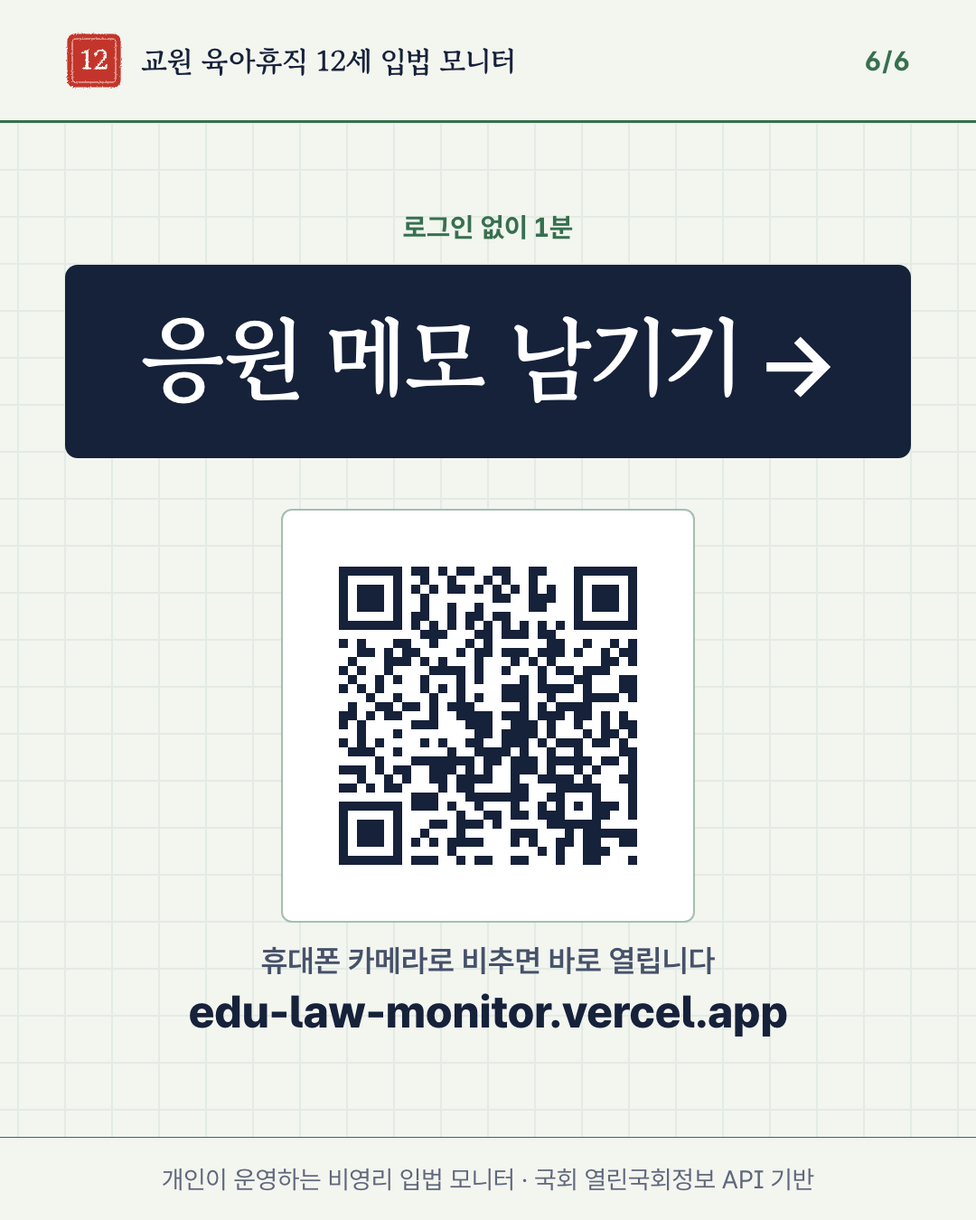
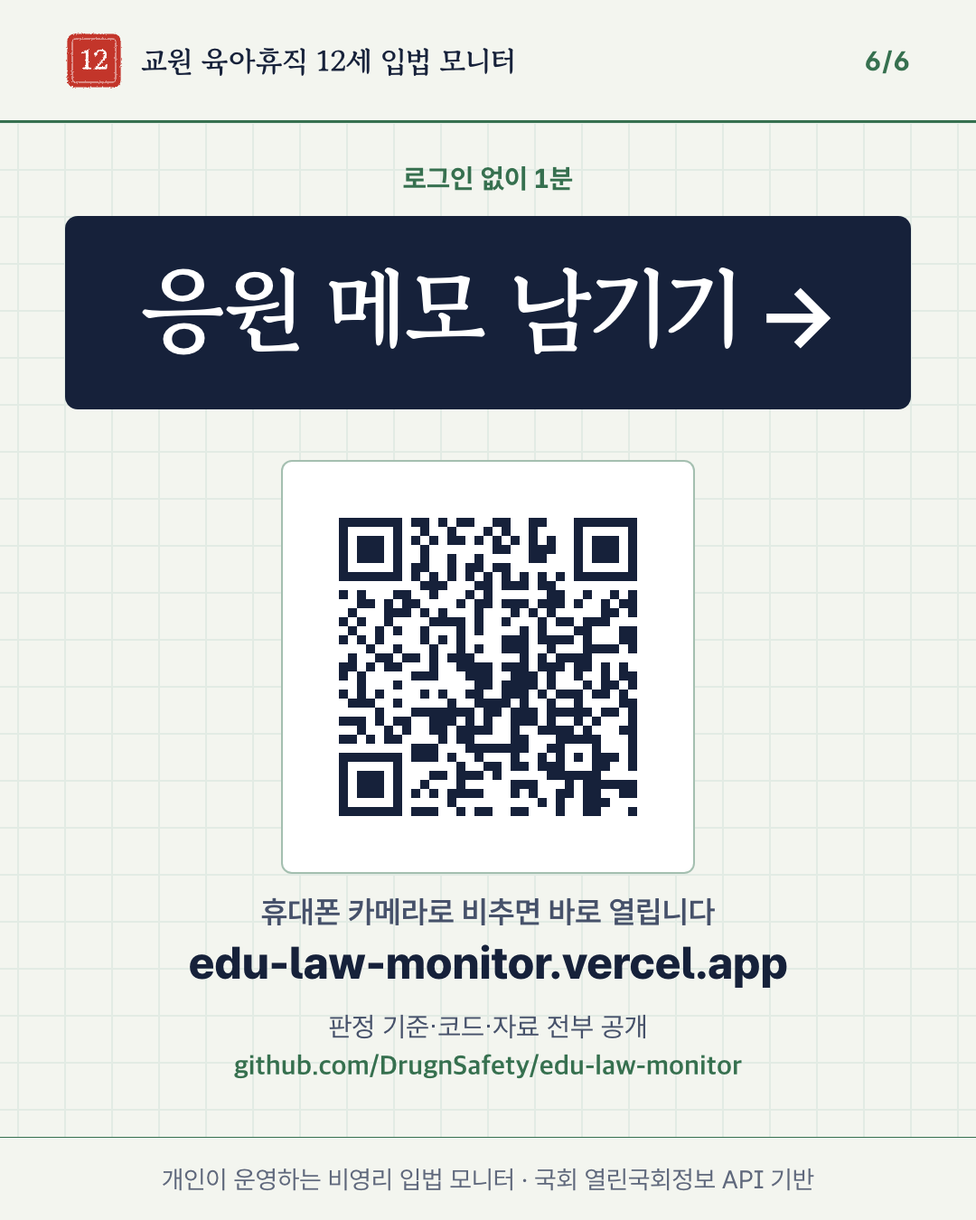
문서 정리(docs/), README 개편, 카드뉴스·사이트에 GitHub 공개 링크, 카페 게시글 초안

Changed region(s): [[0.0611, 0.1244, 0.9472, 0.9022]]

diff --git a/app/layout.tsx b/app/layout.tsx
@@ -56,7 +56,11 @@ export default function RootLayout({ children }: { children: React.ReactNode }) 
               Open API를 <b className="font-semibold text-ink-2">하루 3회({CHECK_TIMES_KST.join(" · ")})</b> 조회해 자동으로 판정합니다. API 반영은 며칠 늦을 수 있어, 확인되지 않은 사항은 ‘확인 불확실’로 표시합니다. ‘추정’은 일반 절차에 근거한 예상이며 사실이 아닙니다.
             </p>
             <p>
-              빠른 입법 지지 메모가 100개 모일 때마다 AI 비서 ‘피클(Pickle)’이 교육위원회 의원 지역사무실에 전화를 겁니다. 운영자 승인 후 평일 업무시간에만, 사무실당 한 번입니다. 이 사이트는 개인이 운영하는 시민 모니터로 국회·정부와 관계가 없습니다.
+              빠른 입법 지지 메모가 100개 모일 때마다 AI 비서 ‘피클(Pickle)’이 교육위원회 의원 지역사무실에 전화를 겁니다. 운영자 승인 후 평일 업무시간에만, 사무실당 한 번입니다. 이 사이트는 개인이 운영하는 시민 모니터로 국회·정부와 관계가 없습니다. 판정 기준과 코드는{" "}
+              <a className="underline decoration-rule underline-offset-2 hover:decoration-ink" href="https://github.com/DrugnSafety/edu-law-monitor" target="_blank" rel="noreferrer">
+                GitHub
+              </a>
+              에 공개되어 있습니다.
             </p>
           </div>
         </footer>

diff --git a/marketing/cardnews/06_cta.html b/marketing/cardnews/06_cta.html
@@ -58,6 +58,8 @@
         justify-content: center;
         text-align: center;
       }
+      .src{margin:22px 0 0;text-align:center;font-family:Pretendard,sans-serif;font-size:30px;line-height:1.45;color:#46516a}
+      .src b{color:#36704f;font-weight:700}
     </style>
   </head>
   <body>
@@ -88,6 +90,7 @@
         <div class="qr"><img src="qr.svg" alt="edu-law-monitor.vercel.app 으로 가는 QR 코드" /></div>
         <p class="qr-hint">휴대폰 카메라로 비추면 바로 열립니다</p>
         <p class="url">edu-law-monitor.vercel.app</p>
+        <p class="src">판정 기준·코드·자료 전부 공개<br /><b>github.com/DrugnSafety/edu-law-monitor</b></p>
       </section>
 
       <footer class="foot foot--about">

diff --git a/lib/config.ts b/lib/config.ts
@@ -1,4 +1,4 @@
-// 모니터링 기준선과 상수. 기준선은 docs-original-prompt-v3.md 및 PLAN.md 기준.
+// 모니터링 기준선과 상수. 기준선은 docs/original-monitoring-prompt-v3.md 및 PLAN.md 기준.
 
 export const BASELINE_DATE = "2026-11-17";
 export const SESSION_END = "2026-12-09"; // 정기회 종료일

diff --git a/docs/promotion-targets.md b/docs/promotion-targets.md
@@ -1,0 +1,84 @@
+# 홍보 대상 목록: 교원 육아휴직 확대(만 8세/초2 → 만 12세/초6) 모니터링 사이트
+
+작성일 2026-11-17. 대상 사이트 https://edu-law-monitor.vercel.app
+
+주의: 운영자(강민규)는 국립대 의대 교수(교육공무원)이자 학부모이며 초·중등 교사가 아님. 교사 인증이 필요한 커뮤니티(인디스쿨, 함초, 초임공 등)에는 교사로 가입하거나 교사인 척 글을 쓰면 안 됨. 가입·게시·로그인은 하지 않았고 공개 페이지만 열람함. '미확인'은 이번 조사에서 확인하지 못했다는 뜻이며, 모든 규정은 게시 전 직접 재확인 필요.
+
+근거 법안: 교육공무원법 일부개정안(김희정 의원 등 12인, 2026-10-08), 사립학교법 일부개정안(강경숙 의원 등 10인, 2026-10-29)
+
+우선순위: 도달 범위 x 적합도 x 게시 가능성. 가입 가능 여부 열은 일반인/교사인증 필요/기관으로 표기.
+
+## 1. 교육 전문 언론
+
+| 우선순위 | 이름 | URL | 규모 | 가입 가능 여부 | 가입·연락 조건 | 홍보 허용 | 추천 게시판/채널 | 비고 | 출처 |
+|---|---|---|---|---|---|---|---|---|---|
+| A | 한국교육신문(한국교총 계열) | https://www.hangyo.com/home/page.html?code=report | 교육 매체 1위(자체 소개) | 기관(외부 연락 채널) | 온라인 제보·투고 폼(비회원 가능 여부 미확인); 교총 보도 창구 | yes | 제보·투고 폼 | 교원 독자 최다. 폼 필드는 확인 못함(내용 로드 안 됨). 교총 계열이라 교원 처우 법안 관심 높음. | https://www.hangyo.com/home/page.html?code=company |
+| A | 에듀프레스 | https://www.edupress.kr/ | 온라인 전문지 | 기관(외부 연락 채널) | 기자 이메일/제보(공개 페이지에서 제보 이메일 미확인) | unknown | 기사 제보(이메일 미확인) | 11월 중순 교원 정책 기사(교총·교사노조 등) 활발 보도. 기자 개별 연락처는 기사 하단에서 확인 필요. | https://www.edupress.kr/ |
+| A | 교육플러스 | https://www.edpl.co.kr/ | 온라인 전문지 | 기관(외부 연락 채널) | 대표 이메일 edpl@edpl.co.kr, 전화 031-217-6262 | yes | 보도자료 이메일 | 보도자료/인사동정 섹션 운영. 이메일은 사이트 공개 정보. | https://www.edpl.co.kr/news/articleView.html?idxno=5495 |
+| B | 교육희망(전교조 기관지) | http://news.eduhope.net/ | 전교조 계열 | 기관(외부 연락 채널) | 기사제보/보도자료 chamehope@gmail.com | yes | 기사제보 이메일 | 전교조 성향 매체. 정책 중립 사실 안내형 자료 적합. | http://news.eduhope.net/ |
+| B | 에듀인뉴스 | https://eduinnews.co.kr/ | 온라인 전문지 | 기관(외부 연락 채널) | 푸터 mail to tana21@naver.com; '보도자료' 섹션 존재 | yes | 보도자료 섹션/이메일 | 현재 기사는 MOU·칼럼 위주로 교원 정책 보도 비중은 낮아 보임. | https://eduinnews.co.kr/ |
+| B | 베이비뉴스 | https://www.ibabynews.com/ | 육아 전문 언론, 창간 16주년 | 기관(외부 연락 채널) | 회사소개 이메일 pr@ibabynews.com, 대표전화 02-3443-3346 | yes | 회사 공식 이메일(pr) | 학부모/육아 독자. 교사 부모 일·가정 양립 각도 적합. 제보 전용 메일은 미확인. | https://www.ibabynews.com/com/com-1.html |
+| C | 에듀플러스(교육신문 etedu) | https://etedu.co.kr/media/media | 온라인 전문지 | 기관(외부 연락 채널) | 보도자료 게시판 존재, 이메일 미확인 | unknown | 보도자료 게시판 | - | https://etedu.co.kr/media/media |
+
+## 2. 교원단체·노조
+
+| 우선순위 | 이름 | URL | 규모 | 가입 가능 여부 | 가입·연락 조건 | 홍보 허용 | 추천 게시판/채널 | 비고 | 출처 |
+|---|---|---|---|---|---|---|---|---|---|
+| A | 한국교총(한국교원단체총연합회) | https://www.kfta.or.kr/ | 약 15만(2023 추정치, 블로그) | 기관(외부 연락 채널) | 공식 SNS/카톡 채널; 이메일 kftapr@kfta.or.kr(페이스북 공개), 02-570-5500 | n/a | 대외협력/홍보 담당 이메일 | 교원단체. 육아휴직 확대는 처우·정책 이슈로 인용 가능. 인스타 koreakfta 6.2K, FB 7K. | https://www.facebook.com/kfta0515 |
+| A | 교사노조연맹 | https://www.kftu.net/ | 약 7.5만(2023 추정, 중복 포함) | 기관(외부 연락 채널) | 홈페이지 '취재요청' 분류 게시판, 인스타·페이스북·유튜브 운영(핸들 미확인) | n/a | 보도자료/취재요청 게시판 | 20~30대 교사 비중 높음, 육아휴직 직접 이해 당사자 많음. | https://www.kftu.net/board/index.html?id=news&no=642 |
+| A | 전교조(전국교직원노동조합) | https://www.eduhope.net/ | 약 4만(2023 추정), FB 16K, IG 4,870 | 기관(외부 연락 채널) | 대표 chambb@eduhope.net, 02-2670-9300; 대변인 chamktu@hanmail.net(보도자료 하단) | n/a | 대외 보도자료 이메일 | IG eduhope_from_you. 정치 성향 있으므로 중립 사실 자료 형태로 접근. | https://www.eduhope.net/ |
+| A | 초등교사노동조합 | https://estu.kr/ | 미확인 | 기관(외부 연락 채널) | estu20@naver.com, 02-761-0325 (사이트 푸터) | n/a | 대표 이메일 | 초등교사 중심; 초2→초6 확대가 직접 관련. 최근 논평·법안 환영 입장 다수. | https://estu.kr/ |
+| B | 좋은교사운동 | http://www.goodteacher.org/ | 미확인 | 기관(외부 연락 채널) | admin@goodteacher.org(푸터), 02-876-4078; 보도자료 게시판 운영 | n/a | 보도/연락 이메일 | 기독교사 연합 성격, 교육 이슈 성명 활발. FB goodteacher2. | http://www.goodteacher.org/ |
+| B | 사립학교 교원 단체(사립학교교직원노조 등) | - | 미확인 | 기관(외부 연락 채널) | 이번 조사에서 공식 연락처를 확인하지 못함. 사립학교법 개정안(강경숙 의원 대표발의 2026-10-29) 관련이라 별도 조사 필요 | unknown | - | 사립 교원 대상 조항 포함이라 적합도 높음. 후속 조사 필요. | https://opinion.lawmaking.go.kr/gcom/nsmLmSts/out/2222256/detailRP |
+| C | 실천교육교사모임 | https://koreateachers.org | 약 2천(2023 추정) | 기관(외부 연락 채널) | 연락처 미확인(공식 사이트 미조회) | n/a | 홈페이지 문의 | 초등 교사 중심. | https://pathfollower.tistory.com/entry/%EA%B5%90%EC%9B%90-6%EB%8C%80-%EB%8B%A8%EC%B2%B4-%ED%8A%B9%EC%A7%95-%ED%9A%8C%EB%B9%84-%ED%9A%8C%EC%9B%90%EC%88%98-%EB%B9%84%EA%B5%90feat-%EA%B5%90%EC%9B%90%EB%8B%A8%EC%B2%B4%EC%99%80-%EA%B5%90%EC%9B%90%EB%85%B8%EC%A1%B0 |
+| C | 새로운학교네트워크 | https://newschoolnet.kr | 미확인 | 기관(외부 연락 채널) | 연락처 미확인 | n/a | 홈페이지 문의 | - | https://pathfollower.tistory.com/entry/%EA%B5%90%EC%9B%90-6%EB%8C%80-%EB%8B%A8%EC%B2%B4-%ED%8A%B9%EC%A7%95-%ED%9A%8C%EB%B9%84-%ED%9A%8C%EC%9B%90%EC%88%98-%EB%B9%84%EA%B5%90feat-%EA%B5%90%EC%9B%90%EB%85%B8%EC%A1%B0 |
+
+## 3. 교사 커뮤니티(비네이버 및 기타)
+
+| 우선순위 | 이름 | URL | 규모 | 가입 가능 여부 | 가입·연락 조건 | 홍보 허용 | 추천 게시판/채널 | 비고 | 출처 |
+|---|---|---|---|---|---|---|---|---|---|
+| B | 전국 기간제교사 모임(Daum) | https://cafe.daum.net/_c21_/home?grpid=Pejt | 121,422 | 미확인 | 가입 후 등업(정회원) 필요, 교사업무방은 정회원 이상. 가입·등업 안내 글 있음 | unknown | 미확인 | 기간제 교사 대규모 커뮤니티. 육아휴직 대체교사 이슈와 연결 가능. 외부 링크 규정은 카페 규칙 확인 필요. | https://cafe.daum.net/_c21_/home?grpid=Pejt |
+| B | 쌤동네(구 티처빌 통합) | https://www.instagram.com/ssamdongne | ‘33만 교사’ 자체 표기 | 미확인 | 플랫폼 회원/교사 인증 여부 미확인 | unknown | 미확인 | 인스타그램 계정 DM·제휴 문의 가능성. 정책 확인 필요. | https://www.instagram.com/ssamdongne |
+| C | 인디스쿨(초등교사커뮤니티) | https://indischool.com | 미확인(초등교사 전용) | 교사/학생 인증 필요 | 초등교사 교사인증 필수(나이스 급여명세서/서류). 중등·비교과 불가. 사단법인 | board-specific | 커뮤니티>사회이슈 쫑알쫑알 채널(SNS·유튜브 홍보 불가) / 함께해요(광고·홍보 가능, [광고]표시, 주1회) — 단 회원만 | 운영자는 초등교사가 아니므로 가입·작성 불가(사칭 금지). 외부 광고·제휴 요청도 일체 불가. 교원단체 단체계정 개설 절차는 있음(노조/교원단체). | https://support.indischool.com/hc/ko/articles/51686994593433 |
+| C | 함께하는 초등교육(함초) | https://cafe.naver.com/withelementary | 미확인 | 교사/학생 인증 필요 | 교사/교대생 인증 필수(전국 초등교사·교대생 전용), 2016 블로그 기준 | unknown | 미확인 | 운영자 가입 불가. 현재 정책은 카페 직접 확인 필요. | https://m.blog.naver.com/kejs2sun/220854391072 |
+| C | 초임공(초등임용 다음카페) | https://cafe.daum.net | 미확인 | 교사/학생 인증 필요 | 실명 인증+가입 퀴즈, 교대생·졸업자 전용(2025 블로그 소개) | unknown | 미확인 | 운영자 가입 불가. | https://edu.dasfl.com/entry/%EC%B4%88%EB%93%B1%EC%9E%84%EC%9A%A9%EA%B3%A0%EC%8B%9C-%EA%B0%99%EC%9D%B4-%EA%B3%B5%EB%B6%80%ED%95%B4%EC%9A%94-%EC%B4%88%EC%9E%84%EA%B3%B5-%EA%B0%80%EC%9D%B4%EB%93%9C |
+| C | 네이버 웨일 교사 커뮤니티 | https://cafe.naver.com/whaleteachers | 719 | 미확인 | 가입 필요(조건 미확인) | unknown | 제품 커뮤니티 | 소규모, 특정 제품 커뮤니티라 적합도 낮음. | https://cafe.naver.com/whaleteachers |
+| C | 교사크리에이터협회 | https://www.instagram.com/tcreator_official | 미확인 | 미확인 | 네이버 카페 m.cafe.naver.com/ca-fe/ttuber 연계 | unknown | - | - | https://www.instagram.com/tcreator_official |
+| C | 블라인드 교사 라운지 | https://www.teamblind.com | 미확인 | 미확인 | 직장/학교 인증 필요 여부 미확인 | unknown | 미확인 | 이번 조사에서 규정 미검증. | 미검증 |
+| C | 디시인사이드 교사 갤러리 | https://gall.dcinside.com | 미확인 | 미확인 | 미검증(비회원 글쓰기 정책 미확인) | unknown | 미확인 | 광고성 글 삭제 위험, 정책 확인 필요. | 미검증 |
+| C | 에브리타임 교대 게시판 | https://everytime.kr | 미확인 | 교사/학생 인증 필요 | 재학생 학교 인증 필요(일반인 불가로 추정, 미검증) | unknown | 해당 없음 | 운영자 접근 불가. 교대 학생회·학보 경로 대체. | 미검증 |
+
+## 4. 네이버 카페(학부모/교사)
+
+| 우선순위 | 이름 | URL | 규모 | 가입 가능 여부 | 가입·연락 조건 | 홍보 허용 | 추천 게시판/채널 | 비고 | 출처 |
+|---|---|---|---|---|---|---|---|---|---|
+| B | 초등맘(초중고 부모들의 목소리) | https://cafe.naver.com/mom79 | 207,168~207,315 (검색 스냅샷) | 미확인 | '여자만 가입가능' 표기, 가입 신청 형태 미확인 | unknown | 자유/정책 게시판은 미확인; 카페 규칙 필독 게시판 확인 필요 | 학부모 대형 카페. 교사 부모 대상 홍보 적합. 성별 제한 때문에 운영자 가입 가능 여부는 본인 기준으로 확인. | https://cafe.naver.com/mom79 |
+| C | 맘스홀릭 베이비 | https://cafe.naver.com/imsanbu | 3,708,101 | 미확인 | '여자만 가입가능', 임신·육아 대상 | unknown | 초등맘 수다방 등 있으나 외부 홍보 규정 미확인 | 최대 규모이나 임신·영유아 중심이라 적합도는 낮고, 광고 규제 가능성 높음. | https://cafe.naver.com/imsanbu |
+| C | 부천 사랑 초등맘 | https://m.cafe.naver.com/ohhappy24 | 미확인 | 미확인 | 지역 카페(부천), 가입 조건 미확인 | unknown | 미확인 | 지역 한정. | https://m.cafe.naver.com/ohhappy24 |
+| C | 영유아교사를 위한 엄마쌤카페 | https://m.cafe.naver.com/ca-fe/web/cafes/31149397 | 미확인 | 미확인 | 미확인 | unknown | 미확인 | 어린이집·유치원 교사 위주(교원 범위 일부). | https://m.cafe.naver.com/ca-fe/web/cafes/31149397 |
+
+## 5. SNS 계정(인스타그램·페이스북)
+
+| 우선순위 | 이름 | URL | 규모 | 가입 가능 여부 | 가입·연락 조건 | 홍보 허용 | 추천 게시판/채널 | 비고 | 출처 |
+|---|---|---|---|---|---|---|---|---|---|
+| A | 한국교총 인스타(@koreakfta) | https://www.instagram.com/koreakfta | 6,163 | 일반인(팔로우/DM) | 공개 | unknown | 댓글/DM; 교총 홍보 이메일 병행 | 교원 정책 게시물 활발, 댓글 소통 활발(게시물당 댓글 다수). | https://www.instagram.com/koreakfta |
+| B | 풀꽃선생님(@a_flower_edu) | https://www.instagram.com/a_flower_edu | 111K | 일반인(팔로우/DM) | 공개 팔로우/DM | unknown | DM 문의 | 초등 국어 교사 인플루언서. 교권 정책 비중은 낮음. | https://www.instagram.com/a_flower_edu |
+| B | 준쌤 이준권(@jun_ssaem) | https://www.instagram.com/jun_ssaem | 1.6K+ | 일반인(팔로우/DM) | 공개 | unknown | DM | 충남교총 회장·교사크리에이터협회 회장 표기(프로필). 교원 정책 인플루언서 연결고리. | https://www.instagram.com/jun_ssaem |
+| B | 쌤동네(@ssamdongne) | https://www.instagram.com/ssamdongne | 미확인(플랫폼 33만 자체 표기) | 일반인(팔로우/DM) | 공개 | unknown | DM | 교사 정보 콘텐츠 계정. | https://www.instagram.com/ssamdongne |
+| B | 전교조 공식(@eduhope_from_you) | https://www.instagram.com/eduhope_from_you | 4,870 | 일반인(팔로우/DM) | 공개 | unknown | DM | - | https://www.instagram.com/eduhope_from_you |
+| B | 전교조 페이스북 | https://www.facebook.com/chameduhope | 16K | 일반인(팔로우/DM) | 공개 | unknown | 메시지 | - | https://www.facebook.com/chameduhope |
+| B | 한국교총 페이스북(kfta0515) | https://www.facebook.com/kfta0515 | 약 7K | 일반인(팔로우/DM) | 공개 | unknown | 메시지 | - | https://www.facebook.com/kfta0515 |
+| C | 안상현 초등교사안쌤(@goodteacherinkorea) | https://www.instagram.com/goodteacherinkorea | 10.7K | 일반인(팔로우/DM) | 공개 | unknown | DM | 학부모 코칭 중심. | https://www.instagram.com/goodteacherinkorea |
+| C | 유진쌤(@ssam_in_sesami) | https://www.instagram.com/ssam_in_sesami | 7.0K | 일반인(팔로우/DM) | 공개 | unknown | DM | - | https://www.instagram.com/ssam_in_sesami |
+| C | 키티쌤(@kit_tycher) | https://www.instagram.com/kit_tycher | 4K+ | 일반인(팔로우/DM) | 공개 | unknown | DM | 저연차 초등교사(출산·육아 연령대 가능). | https://www.instagram.com/kit_tycher |
+| C | 1000쌤 교사 노션(@iooo_tttt) | https://www.instagram.com/iooo_tttt | 미확인 | 일반인(팔로우/DM) | 공개 | unknown | DM | 14년차 중등교사. | https://www.instagram.com/iooo_tttt |
+| C | 해피이선생(@happylee_ssam) | https://www.instagram.com/happylee_ssam | 미확인 | 일반인(팔로우/DM) | 공개 | unknown | DM | 초등교사 유튜버. | https://www.instagram.com/happylee_ssam |
+| C | 교사크리에이터협회(@tcreator_official) | https://www.instagram.com/tcreator_official | 미확인 | 일반인(팔로우/DM) | 공개 | unknown | DM | - | https://www.instagram.com/tcreator_official |
+| C | 좋은교사운동 페이스북(goodteacher2) | https://www.facebook.com/goodteacher2 | 미확인 | 일반인(팔로우/DM) | 공개 | unknown | 메시지 | - | https://www.facebook.com/goodteacher2 |
+
+## 참고
+- Threads/X 계정은 이번 조사에서 핸들과 팔로워를 확인하지 못해 제외함(인스타그램·페이스북만 기재). 인스타그램 팔로워는 검색 스냅샷 기준 대략치.
+- 디시, 블라인드, 에브리타임, 아이스크림 쌤, 에듀넷 티-클리어는 공식 규정을 확인하지 못함.
+- 사립학교 교원 단체, 실천교육교사모임, 새로운학교네트워크 연락처는 후속 확인 필요.
+- 네이버 카페 교사 전용(임용·교사맘·사립교사 등)의 정확한 URL·회원수는 이번에 확인한 범위(초등맘, 맘스홀릭, 함초 등)를 넘지 못함.
+- 맘카페 2곳은 '여자만 가입가능'으로 표기됨.

diff --git a/docs/cafe-post-drafts.md b/docs/cafe-post-drafts.md
@@ -1,0 +1,76 @@
+# 카페 게시글 초안
+
+카드뉴스(`marketing/cardnews/png/01~06`)를 순서대로 첨부하고 아래 본문을 붙입니다.
+올리기 전에 각 카페의 홍보·외부링크 규정과 게시판을 확인하세요(규정상 금지면 올리지 않거나 운영진에게 먼저 문의).
+사실 기준일: 2026-11-18(KST). 대안 조문이 공개되면 3번 문단을 고쳐야 합니다.
+
+---
+
+## A. 교사·기간제교사 카페용
+
+**제목**
+[정보] 교원 육아휴직 '초6까지' 개정, 11/17 국회 소위 통과 — 12/9 정기회 전 남은 3단계
+
+**본문**
+
+안녕하세요. 교원 육아휴직 개정 소식을 정리해 공유드립니다.
+카페 규정에 맞지 않는 글이라면 운영진께서 삭제하셔도 괜찮습니다.
+
+■ 지금 기준
+- 교원(국공립·사립) 육아휴직 대상 자녀: 만 8세 이하 또는 초등학교 2학년 이하
+- 일반 국가·지방공무원: 2026년 6월부터 만 12세 이하·초등학교 6학년 이하로 확대(베이비뉴스 2026.6.2 보도)
+- 교원에게 적용되는 교육공무원법·사립학교법만 아직 개정되지 않았습니다.
+
+■ 11월 17일에 있었던 일
+국회 교육위원회 법안심사소위원회가 교육공무원법 개정안 4건, 사립학교법 개정안 3건을 '위원회 대안'으로 묶어 의결했습니다.
+원래 개정안들의 공통 내용은 대상 자녀를 만 12세 이하·초6 이하로 넓히는 것입니다.
+다만 대안의 정확한 조문(시행일 등)은 아직 공개되지 않았습니다. 확인되는 대로 아래 사이트에 반영됩니다.
+사립학교법도 함께 다뤄졌다는 점에서 사립 선생님들께도 해당되는 내용입니다.
+
+■ 남은 절차
+① 소위 의결(완료, 11/17) → ② 교육위 전체회의 → ③ 법사위 → ④ 본회의 → 정부 이송·공포·시행
+이번 정기회는 12월 9일에 끝납니다. 회기 안에 본회의까지 가지 못하면 다시 늦어질 수 있습니다.
+
+■ 진행 상황을 자동으로 확인하는 사이트를 만들었습니다
+교원 육아휴직 12세 입법 모니터: https://edu-law-monitor.vercel.app
+- 국회 열린국회정보 Open API로 하루 3번(08:40·13:40·21:10) 의안·회의 일정을 확인합니다.
+- 단계가 바뀌면 이메일로 짧게 알려드립니다(구독·해지 자유).
+- 로그인 없이 응원 메모를 남길 수 있고, '빠른 입법 지지' 메모가 100개 모일 때마다 AI 비서 '피클'이 교육위원회 의원 지역사무실에 모인 목소리를 전화로 전합니다(평일 업무시간, 사무실당 1회).
+- 개인이 운영하는 비영리 사이트이며 판정 기준과 코드는 모두 공개되어 있습니다: https://github.com/DrugnSafety/edu-law-monitor
+
+저도 아이를 키우는 교육공무원이라 이 개정이 이번 회기에 마무리되길 바라는 마음으로 만들었습니다.
+메모 한 줄, 주변 선생님께 공유 한 번이 큰 힘이 됩니다. 감사합니다.
+
+---
+
+## B. 아빠·육아·지역 카페용
+
+**제목**
+초등 3~6학년 키우는 선생님 가족이라면 — 교원 육아휴직 '초6까지' 개정이 국회 첫 관문을 넘었습니다
+
+**본문**
+
+안녕하세요, 초등학생 아이를 키우는 아빠입니다.
+혹시 주변에 교사인 배우자나 가족이 계시면 알아두시면 좋을 소식이라 공유드립니다. (규정에 맞지 않으면 삭제해 주세요.)
+
+일반 공무원은 올해 6월부터 아이가 초등학교 6학년(만 12세)일 때까지 육아휴직을 쓸 수 있게 됐는데,
+선생님들은 여전히 초등학교 2학년(만 8세)까지만 가능합니다. 교사에게 적용되는 법이 따로 있어서 그 법을 고쳐야 하기 때문입니다.
+
+그 개정안들이 11월 17일 국회 교육위원회 소위원회를 통과(위원회 대안으로 의결)했습니다.
+아직 교육위 전체회의, 법사위, 본회의가 남았고, 이번 국회 정기회는 12월 9일에 끝납니다.
+
+진행 상황을 하루 3번 자동으로 확인해 보여주는 사이트를 만들었습니다.
+👉 https://edu-law-monitor.vercel.app
+- 로그인 없이 응원 메모 한 줄 남기기
+- 단계가 바뀌면 이메일 알림
+- 지지 메모 100개마다 AI 비서가 국회의원 지역사무실에 모인 목소리를 전화로 전달
+
+초등 고학년 돌봄이 필요한 건 선생님 가정도 마찬가지입니다. 관심 가져 주셔서 감사합니다.
+
+---
+
+## 댓글·문의 대응 메모
+- "누가 운영하나요?" → 개인이 운영하는 비영리 시민 모니터이고 국회·정부·단체와 관계가 없습니다. 코드와 판정 기준은 GitHub에 공개되어 있습니다.
+- "통과된 건가요?" → 아닙니다. 11/17 소위 단계만 지났고 교육위 전체회의·법사위·본회의가 남았습니다.
+- "언제부터 적용되나요?" → 대안 조문(시행일)이 아직 공개되지 않았습니다. 확인되면 사이트와 이메일로 알립니다.
+- "피클 전화가 업무방해 아닌가요?" → 100개마다 사무실당 1회, 평일 업무시간에만, 운영자 확인 후 정중한 의견 전달로 제한합니다.

diff --git a/README.md b/README.md
@@ -1,8 +1,51 @@
 # 교원 육아휴직 12세 확대 입법 모니터 (edu-law-monitor)
 
-교육공무원법 개정 **위원회 대안**(교원 육아휴직 대상 자녀 만 8세/초2 → 만 12세/초6)과 사립학교법 대안의 국회 진행 상황을
-열린국회정보 공식 Open API로 하루 3회(KST 08:40·13:40·21:10) 추적하고, 시민 응원 게시판·이메일 알림·텔레그램 알림·의원실 참여 가이드를 제공하는 Next.js 앱입니다.
-상세 기획은 `PLAN.md`, 판정 원칙의 원본은 `docs-original-prompt-v3.md` 참고.
+> 교원(국공립·사립)의 육아휴직 대상 자녀를 **만 8세·초2 → 만 12세·초6**으로 넓히는
+> 교육공무원법·사립학교법 **위원회 대안**의 국회 진행 상황을 자동으로 추적하는 비영리 시민 모니터입니다.
+
+- 🌐 사이트: **https://edu-law-monitor.vercel.app**
+- 🗂 데이터: 국회사무처 [열린국회정보 Open API](https://open.assembly.go.kr) + 네이버 검색 API, 하루 3회(KST 08:40·13:40·21:10)
+- ✍ 참여: 로그인 없이 응원 메모 · 단계 변화 이메일 알림 · '빠른 입법 지지' 메모 100개마다 AI 비서 '피클'이 교육위원회 의원 지역사무실에 전화
+- ⚖ 원칙: 확인된 사실만 '변화 있음'으로, 확인 못 한 것은 '확인 불확실'로, 예상은 '추정'으로 표시합니다.
+
+개인이 운영하며 국회·정부·특정 단체와 관계가 없습니다.
+
+## 현재 상황 (2026-11-18 KST 기준)
+
+| 단계 | 상태 |
+|---|---|
+| ① 교육위 법안심사소위 | **2026-11-17 의결** — 교육공무원법 개정안 4건·사립학교법 개정안 3건을 위원회 대안으로 묶음(대안 조문 공개 전) |
+| ② 교육위 전체회의 | 대기 |
+| ③ 법사위 체계·자구 심사 | 대기 |
+| ④ 본회의 | 대기 (정기회 종료 12월 9일) |
+| ⑤ 정부 이송 → ⑥ 공포 → ⑦ 시행 | 대기 |
+
+최신 상태는 사이트의 판정 배지와 타임라인을 보세요.
+
+## 카드뉴스
+
+| | | |
+|---|---|---|
+| ![1](marketing/cardnews/png/01_cover.png) | ![2](marketing/cardnews/png/02_gap.png) | ![3](marketing/cardnews/png/03_progress.png) |
+| ![4](marketing/cardnews/png/04_whats_left.png) | ![5](marketing/cardnews/png/05_how_you_help.png) | ![6](marketing/cardnews/png/06_cta.png) |
+
+- 원본 HTML·렌더 스크립트: [`marketing/cardnews/`](marketing/cardnews/) (`npm install && node render.mjs`)
+- SNS·카페 게시 문구: [`marketing/cardnews/captions.md`](marketing/cardnews/captions.md)
+
+## 문서
+
+| 파일 | 내용 |
+|---|---|
+| [`docs/PLAN.md`](docs/PLAN.md) | 기획 의도와 고도화 계획 |
+| [`docs/original-monitoring-prompt-v3.md`](docs/original-monitoring-prompt-v3.md) | 이전에 Claude 예약 작업으로 매일 돌리던 모니터링 프롬프트(판정 규칙의 원본) |
+| [`docs/cafe-post-drafts.md`](docs/cafe-post-drafts.md) | 교사 카페·육아 카페 게시글 초안과 댓글 대응 메모 |
+| [`docs/promotion-targets.md`](docs/promotion-targets.md) | 홍보 대상(교원단체·언론·카페·SNS) 조사 목록 |
+| 이 README 아래 | 실행 방법, 환경 변수, 검증된 API 서비스 코드, 판정 규칙, 구조, 한계 |
+
+## 기술 개요
+
+Next.js(App Router) · TypeScript · Tailwind · Postgres(Neon) · Vercel Cron · Nodemailer(Gmail SMTP) · Telegram Bot API.
+디자인은 Anthropic `frontend-design` 스킬을 사용해 Claude Opus로 만들었습니다.
 
 ## 실행
 
